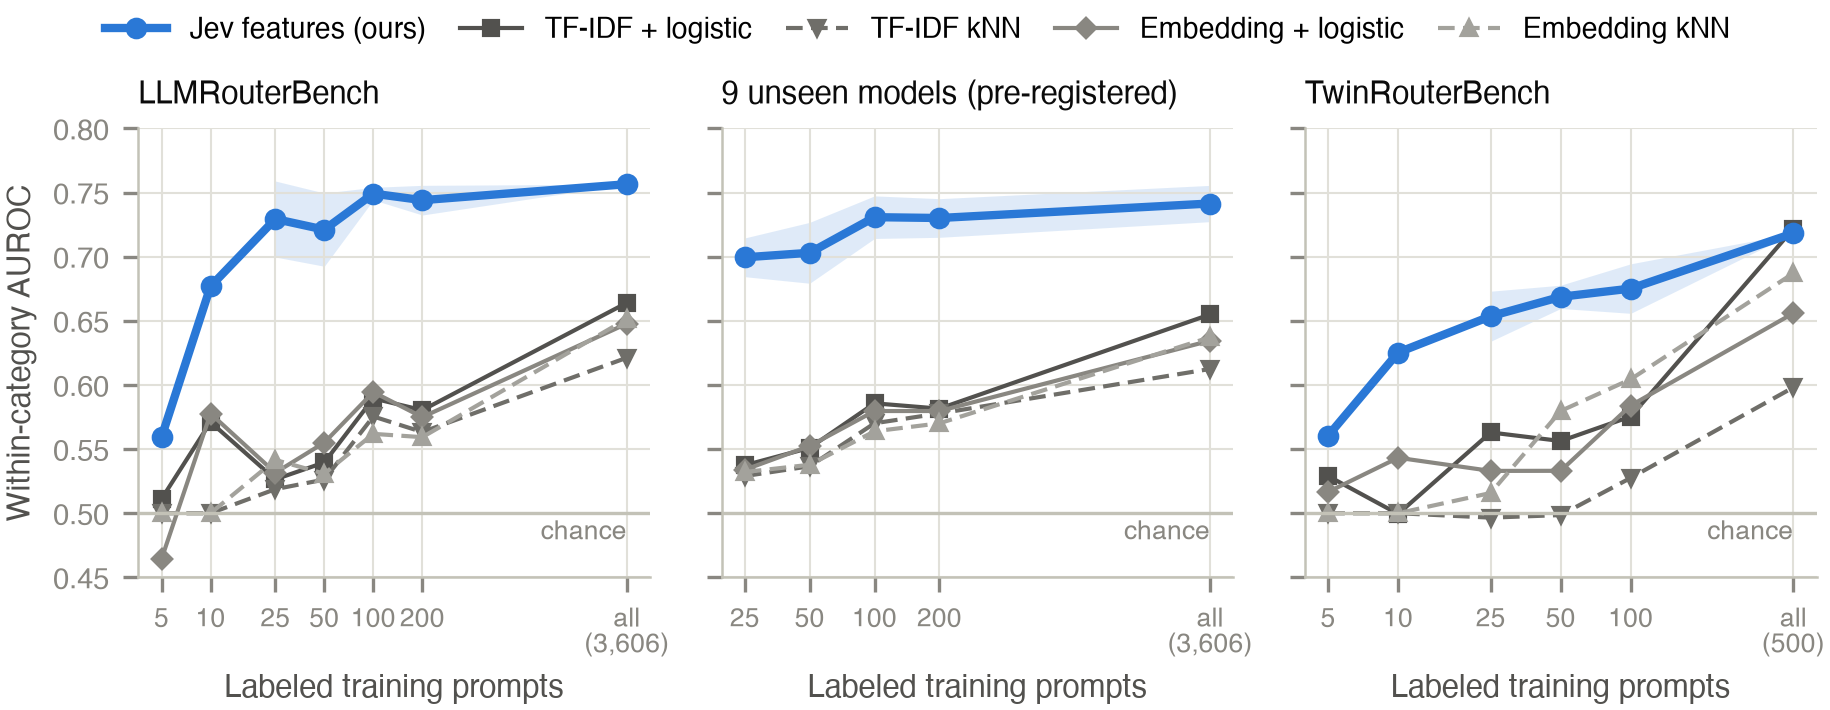
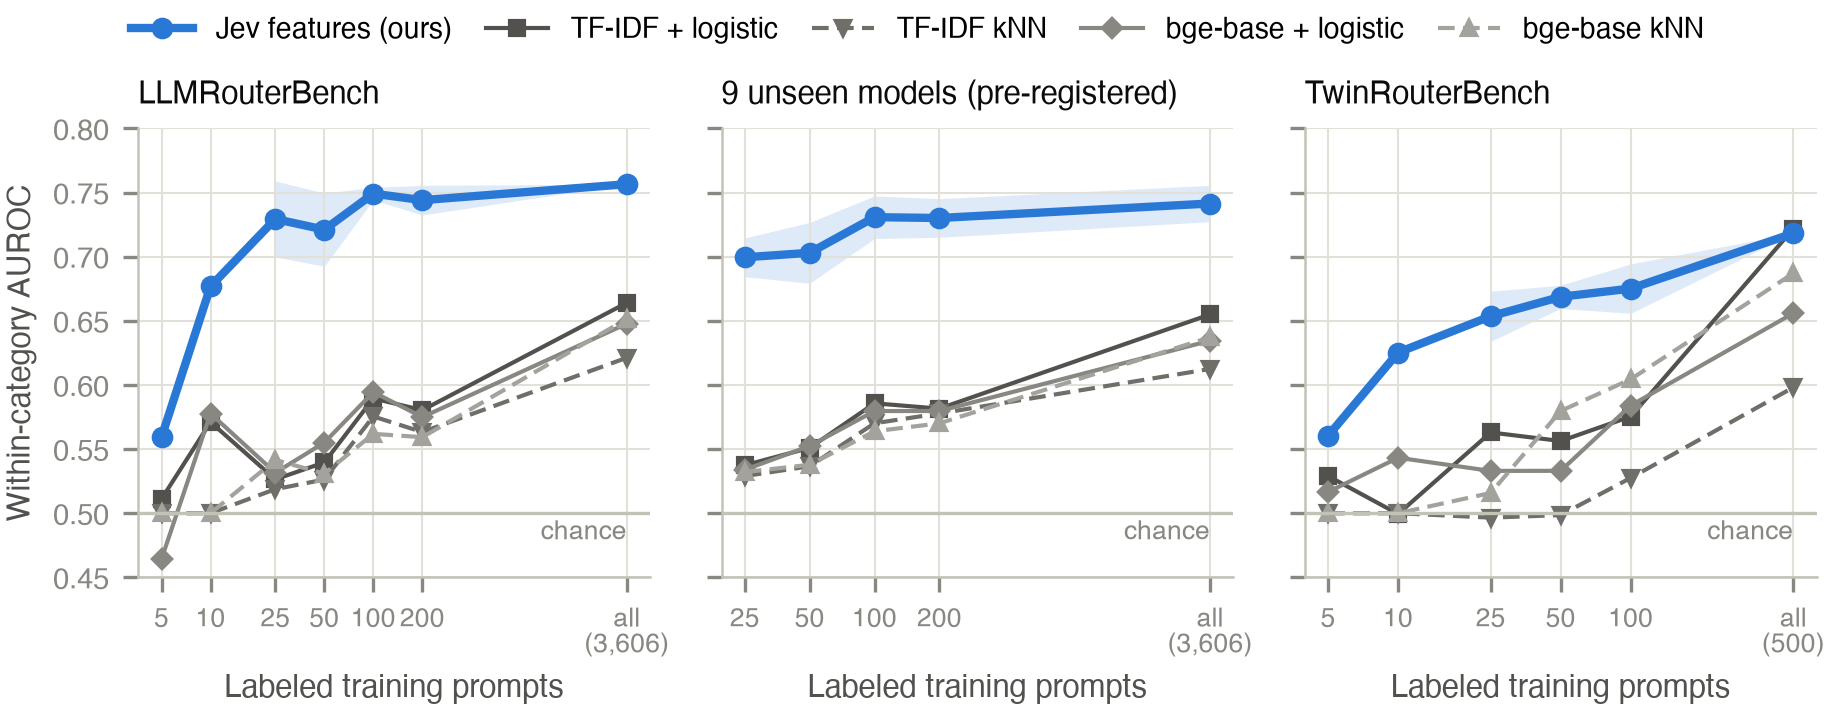
Figures: legend and axis names match the paper (bge-base, LiveCodeBench)

Changed region(s): [[0.0311, 0.0, 0.7164, 0.062], [0.8098, 0.0, 0.9656, 0.062]]

diff --git a/scripts/figures.py b/scripts/figures.py
@@ -60,8 +60,8 @@ MODEL_NAMES = {  # pool ids -> printed names (TwinRouterBench tiers are named by
 TEXT_ROUTERS = [  # (metrics name, label, marker, linestyle)
     ("tfidf_logreg", "TF-IDF + logistic", "s", "-"),
     ("knn10", "TF-IDF kNN", "v", (0, (4, 2))),
-    ("bge_logreg", "Embedding + logistic", "D", "-"),
-    ("bge_knn", "Embedding kNN", "^", (0, (4, 2))),
+    ("bge_logreg", "bge-base + logistic", "D", "-"),
+    ("bge_knn", "bge-base kNN", "^", (0, (4, 2))),
 ]
 
 
@@ -364,7 +364,7 @@ def lodo() -> None:
     ax.axhline(0.5, color=INK_2, lw=0.8, zorder=1)
     ax.set_xticks(x)
     names = {
-        "livecodebench": "LiveCode",
+        "livecodebench": "LiveCode-\nBench",
         "mmlupro": "MMLU-Pro",
         "swe-bench": "SWE-bench",
         "aime": "AIME",
